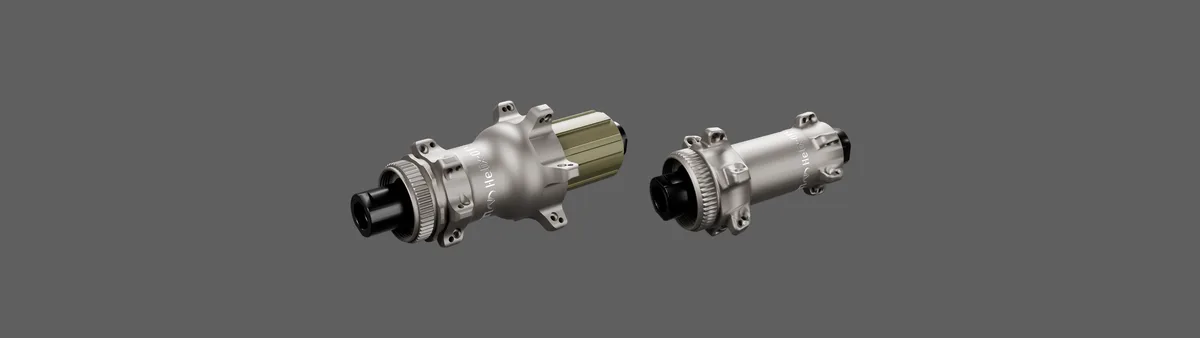
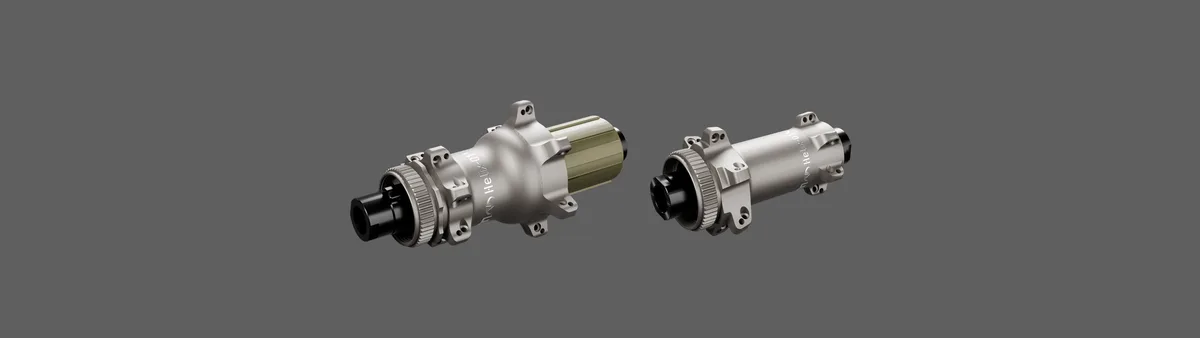
Hub set and share images: re-rendered from the production Helix-01 model (axle with integral drive-side cap, non-drive cap and preload collar), replacing the 3 Oct renders built from the 2023 sample model (Viktor 15 Oct 2026: "replace the renders to reflect the current model where they differ")

Changed region(s): [[0.2775, 0.2959, 0.6475, 0.7396], [0.6475, 0.3254, 0.7092, 0.5621]]

diff --git a/index.html b/index.html
@@ -14,17 +14,17 @@
 <meta property="og:title" content="Venn Helix-01 hub set: the hub that tightens under power">
 <meta property="og:description" content="72-tooth helical engagement, a 41.5 mm angular contact bearing, 348 g a set. USD 449.">
 <meta property="og:url" content="https://helix.venn-cycling.com/">
-<meta property="og:image" content="https://helix.venn-cycling.com/assets/img/helix-01-og.jpg?v=20261003">
+<meta property="og:image" content="https://helix.venn-cycling.com/assets/img/helix-01-og.jpg?v=20261015">
 <meta property="og:image:width" content="1200">
 <meta property="og:image:height" content="630">
 <meta name="twitter:card" content="summary_large_image">
 <meta name="twitter:title" content="Venn Helix-01 hub set">
 <meta name="twitter:description" content="72-tooth helical engagement, a 41.5 mm angular contact bearing, 348 g a set. USD 449.">
-<meta name="twitter:image" content="https://helix.venn-cycling.com/assets/img/helix-01-og.jpg?v=20261003">
+<meta name="twitter:image" content="https://helix.venn-cycling.com/assets/img/helix-01-og.jpg?v=20261015">
 <link rel="preconnect" href="https://fonts.googleapis.com">
 <link rel="preconnect" href="https://fonts.gstatic.com" crossorigin>
 <link rel="stylesheet" href="https://fonts.googleapis.com/css2?family=Poppins:wght@400;500;600;700&display=swap">
-<link rel="preload" as="image" href="assets/img/helix-01-hub-set.webp?v=20261003" imagesrcset="assets/img/helix-01-hub-set-1200.webp?v=20261003 1200w, assets/img/helix-01-hub-set.webp?v=20261003 2400w" imagesizes="100vw">
+<link rel="preload" as="image" href="assets/img/helix-01-hub-set.webp?v=20261015" imagesrcset="assets/img/helix-01-hub-set-1200.webp?v=20261015 1200w, assets/img/helix-01-hub-set.webp?v=20261015 2400w" imagesizes="100vw">
 <script type="application/ld+json">
 {
   "@context": "https://schema.org",
@@ -55,7 +55,7 @@
       "brand": {"@type": "Brand", "name": "Venn"},
       "category": "Bicycle hubs",
       "image": [
-        "https://helix.venn-cycling.com/assets/img/helix-01-hub-set.webp?v=20261003",
+        "https://helix.venn-cycling.com/assets/img/helix-01-hub-set.webp?v=20261015",
         "https://helix.venn-cycling.com/assets/img/helix-01-rear-exploded.webp?v=20261003",
         "https://helix.venn-cycling.com/assets/img/helix-01-ratchet-rings.webp?v=20261003"
       ],
@@ -249,7 +249,7 @@ footer a:hover{text-decoration:underline;text-decoration-color:var(--red)}
     </div>
   </div>
   <div class="hero-img">
-    <img src="assets/img/helix-01-hub-set.webp?v=20261003" srcset="assets/img/helix-01-hub-set-1200.webp?v=20261003 1200w, assets/img/helix-01-hub-set.webp?v=20261003 2400w" sizes="100vw" width="2400" height="675" alt="Venn Helix-01 rear and front hubs in shot-peened grey, the rear with its freehub" fetchpriority="high">
+    <img src="assets/img/helix-01-hub-set.webp?v=20261015" srcset="assets/img/helix-01-hub-set-1200.webp?v=20261015 1200w, assets/img/helix-01-hub-set.webp?v=20261015 2400w" sizes="100vw" width="2400" height="675" alt="Venn Helix-01 rear and front hubs in shot-peened grey, the rear with its freehub" fetchpriority="high">
   </div>
   <div class="wrap">
     <div class="figs">
